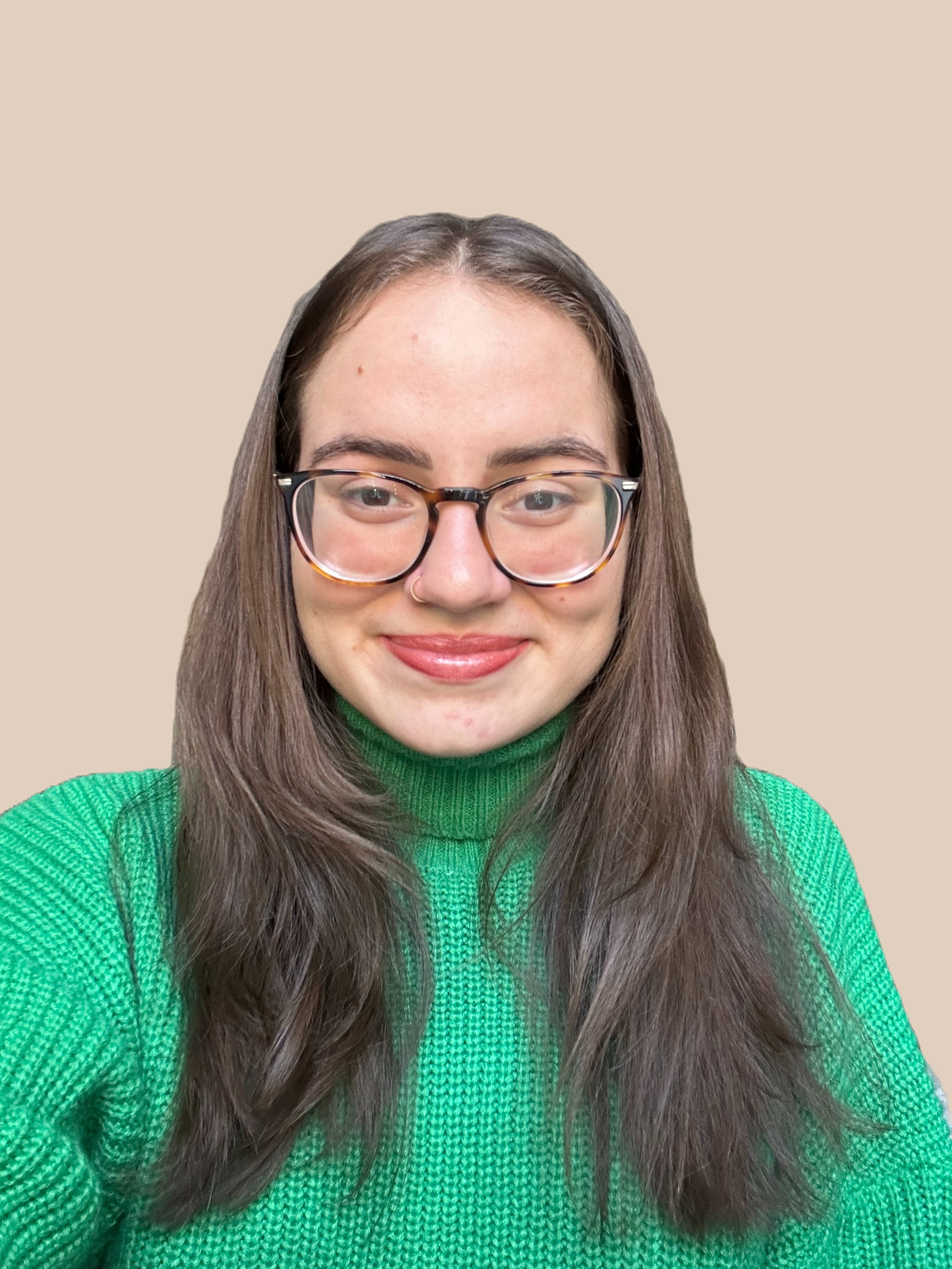
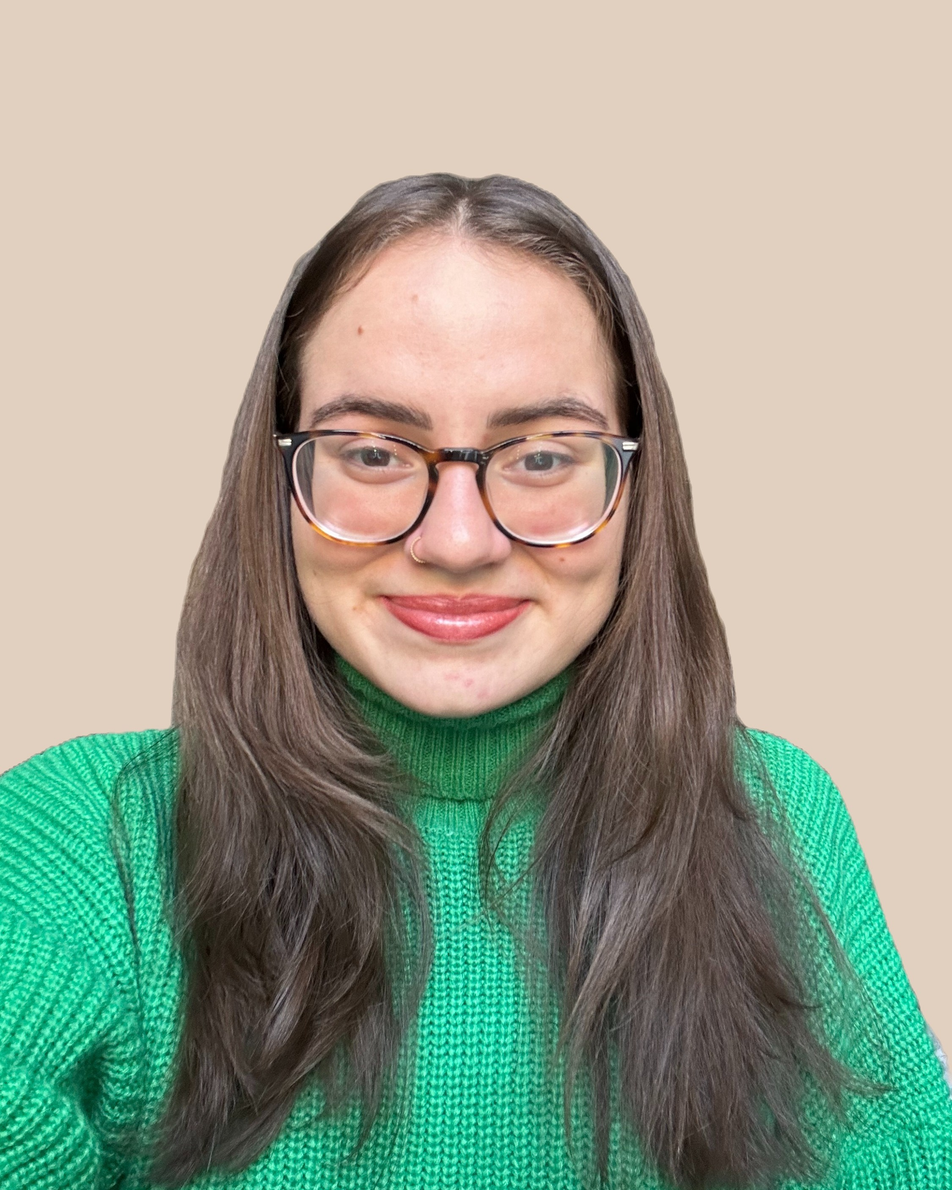
fixing sizing

Changed region(s): [[0.0, 0.495, 1.0, 1.0], [0.2178, 0.1238, 0.7467, 0.4641]]

diff --git a/index.css b/index.css
@@ -606,11 +606,12 @@ body:not(.user-is-tabbing) a:focus {
     background: var(--rose);
 }
 
-.about__me{
-    width: 30vw;
- 
-    top: 65vh;
-    left: 95vh;
+.about__me__photo{
+    position: absolute;
+    top: 15vh;
+    left: 20vh;
+    border-radius: 5px;
+    max-width: 55vh;
 }
 
 .about__me__row{
@@ -619,10 +620,9 @@ body:not(.user-is-tabbing) a:focus {
 
 .overlapping-text {
     position: absolute;
-    top: 65vh;
-    left: 95vh;
-    border-radius: 5px;
-    max-width: 40%;
+    top: 50vh;
+    left: 85vh;
+    max-width: 55vh;
     color: var(--white-cream);
     font-size: 1.5vw;
   }
@@ -630,9 +630,8 @@ body:not(.user-is-tabbing) a:focus {
   .overlapping-header {
     position: absolute;
     font-size: 4.5vw;
-    top: 45vh;
+    top: 30vh;
     left: 80vh;
-    border-radius: 5px;
     max-width: 45%;
     color: var(--rose); 
    

diff --git a/index.html b/index.html
@@ -30,7 +30,7 @@
       </nav>
     </div>
     <div class="about__me__row row">
-      <img src="./images/alej-delg.jpg" class="about__me" alt="alej" />
+      <img src="./images/alej-delg.jpg" class="about__me__photo" alt="alej" />
       <h1 class="overlapping-header">Alejandra Delgado Fernandez</h1>
       <p class="overlapping-text">I am motivated professional looking to start building my career in Finland. I
         am eager to learn, grow, and contribute to organisations where collaboration and innovation are valued. I
